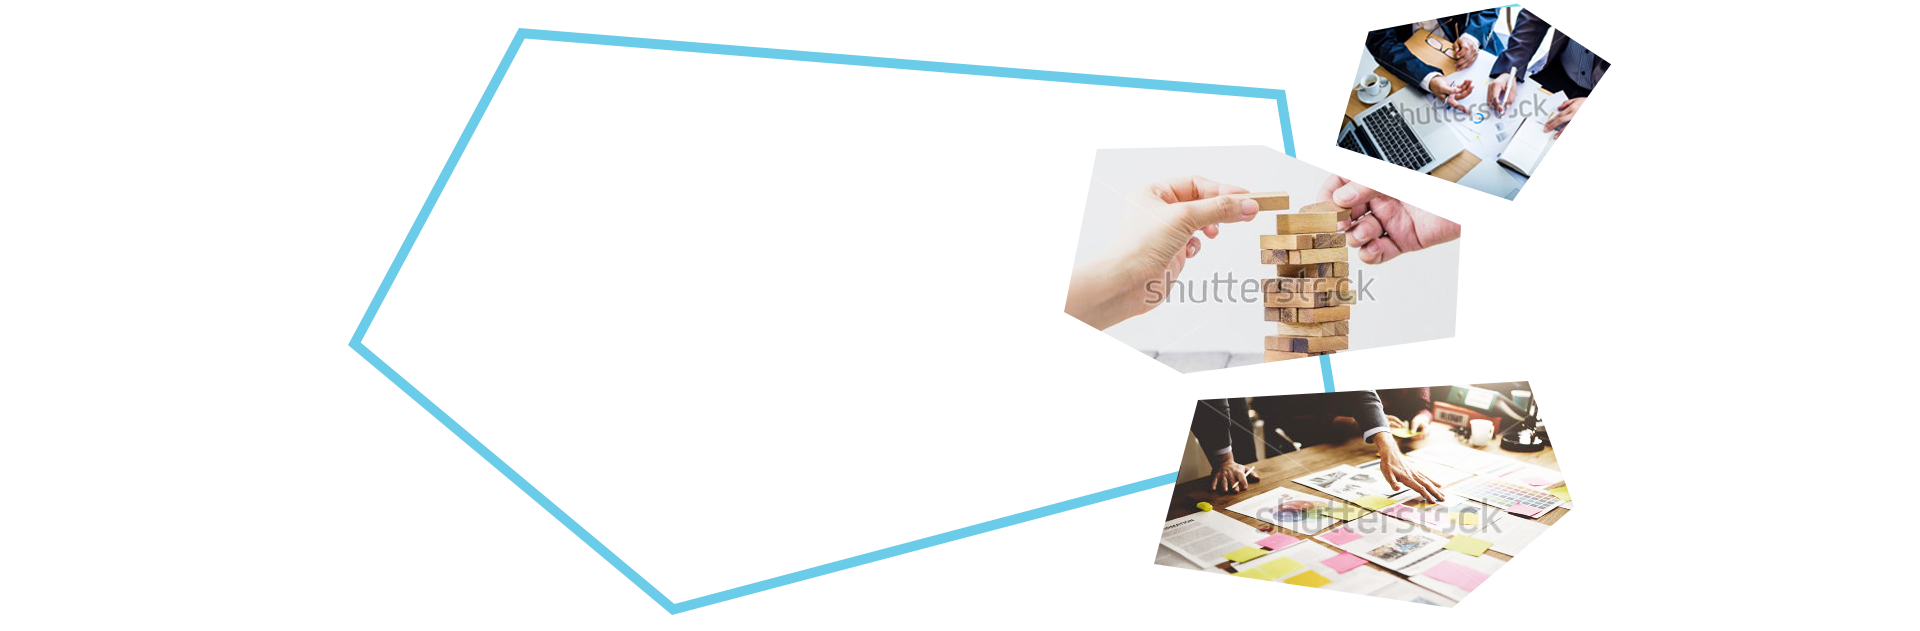
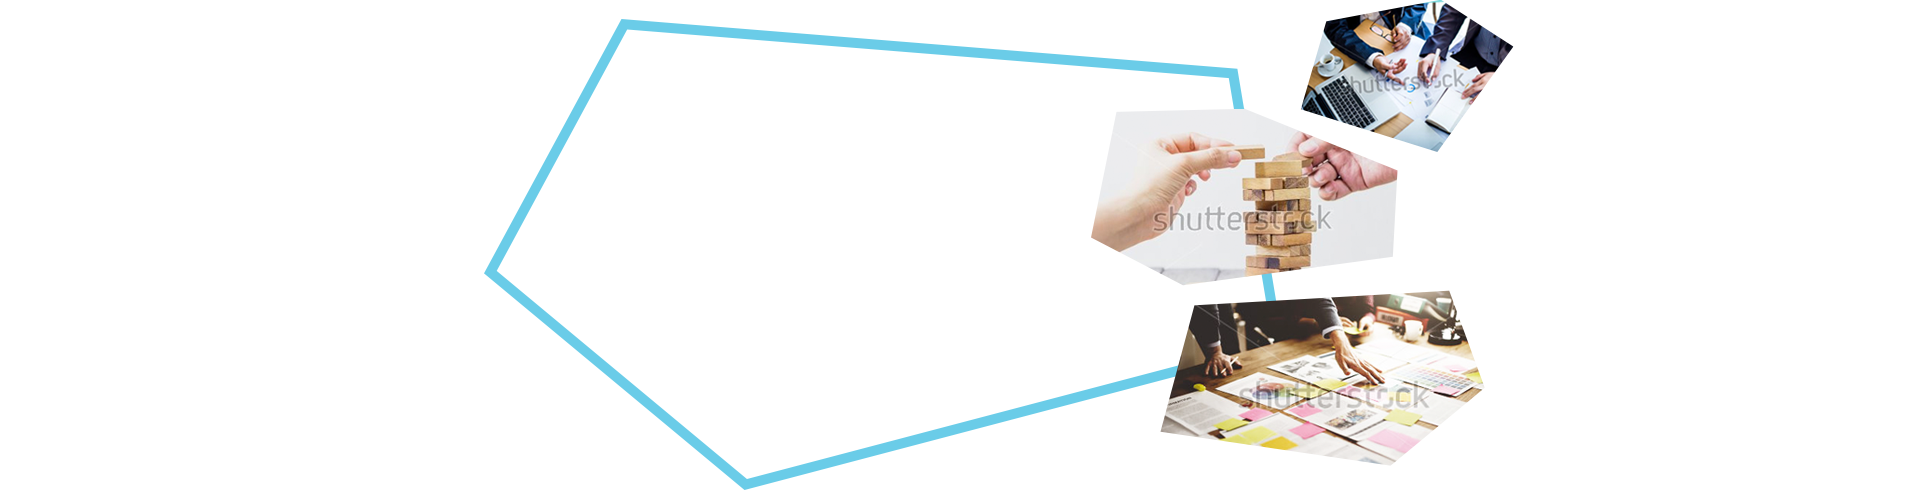
修改

diff --git a/css/allcss.css b/css/allcss.css
@@ -5,7 +5,7 @@
 html,
 body {
   font-size: 100%;
-  font-family: 'Microsoft YaHei', '微软雅黑', '宋体', 'SimSun', STHeiti, MingLiu, Arial, sans-serif;
+  font-family: 'PingFang SC', 'Microsoft YaHei', '微软雅黑', '宋体', 'SimSun', STHeiti, MingLiu, Arial, sans-serif;
   height: 100%;
   width: 100%;
   min-width: 1024px;
@@ -450,8 +450,32 @@ input[type="color"],
   font-size: 42px;
   color: #2c2c2c;
   font-weight: normal;
-  margin-top: -28px;
+  margin: -28px auto 0;
   text-align: center;
+}
+.index-block2-ul li h3.block2-img1 {
+  width: 136px;
+  height: 41px;
+  background: url(../img/block2-img1.png) no-repeat;
+  background-size: 100% 100%;
+}
+.index-block2-ul li h3.block2-img2 {
+  width: 155px;
+  height: 41px;
+  background: url(../img/block2-img2.png) no-repeat;
+  background-size: 100% 100%;
+}
+.index-block2-ul li h3.block2-img3 {
+  width: 111px;
+  height: 41px;
+  background: url(../img/block2-img3.png) no-repeat;
+  background-size: 100% 100%;
+}
+.index-block2-ul li h3.block2-img4 {
+  width: 81px;
+  height: 41px;
+  background: url(../img/block2-img4.png) no-repeat;
+  background-size: 100% 100%;
 }
 .index-block2-ul li h3 i {
   font-size: 18px;
@@ -499,7 +523,7 @@ input[type="color"],
 }
 .index-block3-ul {
   overflow: hidden;
-  margin-bottom: 120px;
+  margin-bottom: 70px;
 }
 .index-block3-ul li {
   width: 380px;
@@ -603,9 +627,11 @@ input[type="color"],
   background: url(../img/link-bg.png) top center no-repeat;
 }
 .index-block4-ul {
-  width: 930px;
+  width: 1000px;
   height: 907px;
   margin: 0 auto 0;
+  position: relative;
+  left: 65px;
   padding-top: 205px;
   -webkit-box-sizing: border-box;
           box-sizing: border-box;
@@ -663,12 +689,12 @@ input[type="color"],
   line-height: 26px;
 }
 .index-block4-ul li:last-child {
-  width: 405px;
+  width: 433px;
   float: right;
 }
 .index-block4-ul li:last-child .more-btn {
-  background: #fff;
-  color: #7fdee1;
+  background: #fef260;
+  color: #4f9899;
 }
 .index-block5 {
   width: 100%;
@@ -694,7 +720,7 @@ input[type="color"],
   top: 8px;
 }
 .news-bg {
-  margin-top: -20px;
+  margin-top: 5px;
   background: url(../img/news-bg.png) top center no-repeat;
   height: 620px;
   margin-bottom: 100px;
@@ -702,14 +728,15 @@ input[type="color"],
 .index-block5-ul {
   width: 930px;
   margin: 0 auto 0;
-  padding-top: 120px;
+  padding-top: 100px;
+  padding-left: 150px;
   -webkit-box-sizing: border-box;
           box-sizing: border-box;
 }
 .index-block5-ul li {
-  font-size: 14px;
+  font-size: 12px;
   color: #000;
-  line-height: 36px;
+  line-height: 30px;
 }
 .index-block5-ul li i {
   float: left;
@@ -727,17 +754,17 @@ input[type="color"],
 }
 .index-block5-ul .more-btn {
   display: block;
-  width: 156px;
-  height: 55px;
-  font-size: 22px;
-  line-height: 55px;
+  width: 106px;
+  height: 45px;
+  font-size: 16px;
+  line-height: 45px;
   text-align: center;
   color: #fff;
   background: #6acce8;
   -webkit-border-radius: 5px;
           border-radius: 5px;
-  margin-left: 150px;
-  margin-top: 46px;
+  margin-left: 90px;
+  margin-top: 23px;
 }
 .index-block6 {
   width: 100%;
@@ -775,6 +802,14 @@ input[type="color"],
   height: 60px;
   line-height: 60px;
   font-weight: normal;
+}
+.index-block7-ul li h4 i {
+  display: inline-block;
+  width: 11px;
+  height: 10px;
+  background: url(../img/suangjiantou.png) no-repeat;
+  background-size: 100% 100%;
+  margin-right: 5px;
 }
 .index-block7-ul li a {
   font-size: 12px;
@@ -833,5 +868,36 @@ input[type="color"],
   margin-right: 16px;
 }
 /* 首页 */
+@media screen and (max-width: 1140px) {
+  .tools-bottom li {
+    padding-top: 20px;
+  }
+  .tools-bottom .tools-bottom-left {
+    width: 219px;
+    margin-right: 19px;
+  }
+  .tools-bottom .tools-bottom-left h4 {
+    margin-bottom: 0;
+  }
+  .tools-bottom .tools-bottom-right {
+    margin-right: 13px;
+  }
+}
+@media screen and (min-width: 1141px) and (max-width: 1300px) {
+  .tools-bottom li {
+    padding-top: 20px;
+  }
+  .tools-bottom .tools-bottom-left {
+    width: 219px;
+    margin-right: 35px;
+  }
+  .tools-bottom .tools-bottom-left h4 {
+    margin-bottom: 0;
+  }
+  .tools-bottom .tools-bottom-right {
+    margin-right: 30px;
+  }
+}
+/* 调整样式 */
 
 /*# sourceMappingURL=allcss.css.map */

diff --git a/css/less/index.less b/css/less/index.less
@@ -416,16 +416,17 @@
     background: url(../img/link-bg.png) top center no-repeat;
 }
 .index-block4-ul{
-    width: 930px;
+    width: 1000px;
     height: 907px;
     margin: 0 auto 0;
+    position: relative;
+    left: 65px;
     padding-top: 205px;
     box-sizing: border-box;
     li{
         float:left;
         width: 435px;
         color: #fff;
-
         >h3{
             font-size: 48px;
             line-height: 60px;
@@ -476,11 +477,11 @@
             }
         }
          &:last-child{
-            width: 405px;
+            width: 433px;
             float:right;
              .more-btn{
-                background: #fff;
-                color: #7fdee1;
+                background: #fef260;
+                color: #4f9899; 
             }
         }
     }
@@ -510,7 +511,7 @@
     }
 }
 .news-bg{
-    margin-top: -20px;
+    margin-top: 5px;
     background: url(../img/news-bg.png) top center no-repeat;
      height:620px;
      margin-bottom: 100px; 
@@ -518,12 +519,13 @@
 .index-block5-ul{
     width: 930px;
     margin: 0 auto 0;
-    padding-top: 120px;
+    padding-top: 100px;
+    padding-left: 150px;
     box-sizing: border-box;
    li{
-        font-size: 14px;
+        font-size: 12px;
         color: #000;
-        line-height: 36px;
+        line-height: 30px;
         i{
             float: left;
             width: 5px;
@@ -540,16 +542,16 @@
    }
    .more-btn{
     display: block;
-    width: 156px;
-    height: 55px;
-    font-size: 22px;
-    line-height: 55px;
+    width: 106px;
+    height: 45px;
+    font-size: 16px;
+    line-height: 45px;
     text-align: center;
     color: #fff;
     background: #6acce8;
     border-radius: 5px;
-    margin-left: 150px;
-    margin-top: 46px;
+    margin-left: 90px;
+    margin-top: 23px;
    }
 }
 
